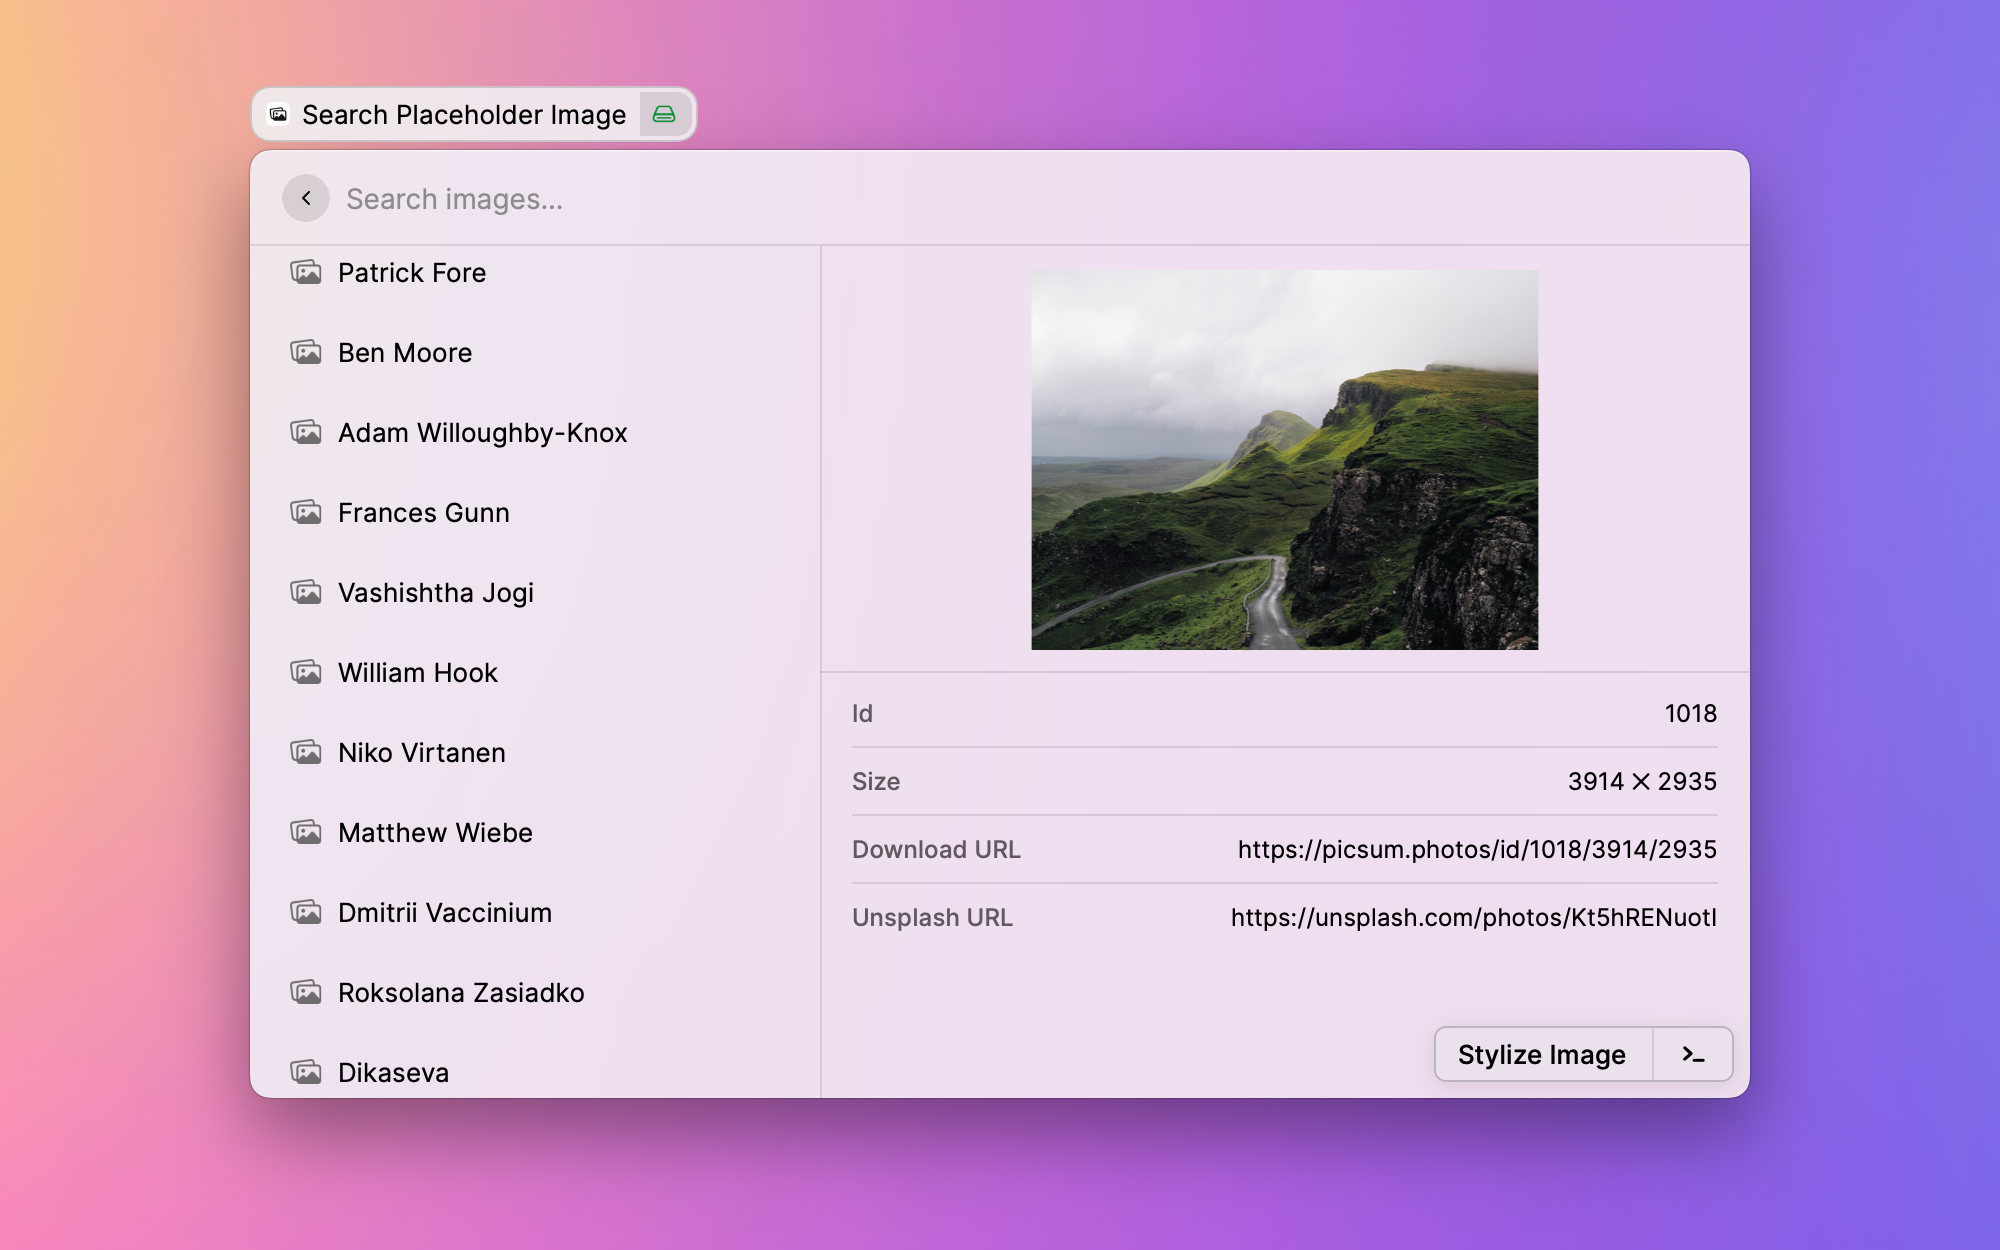
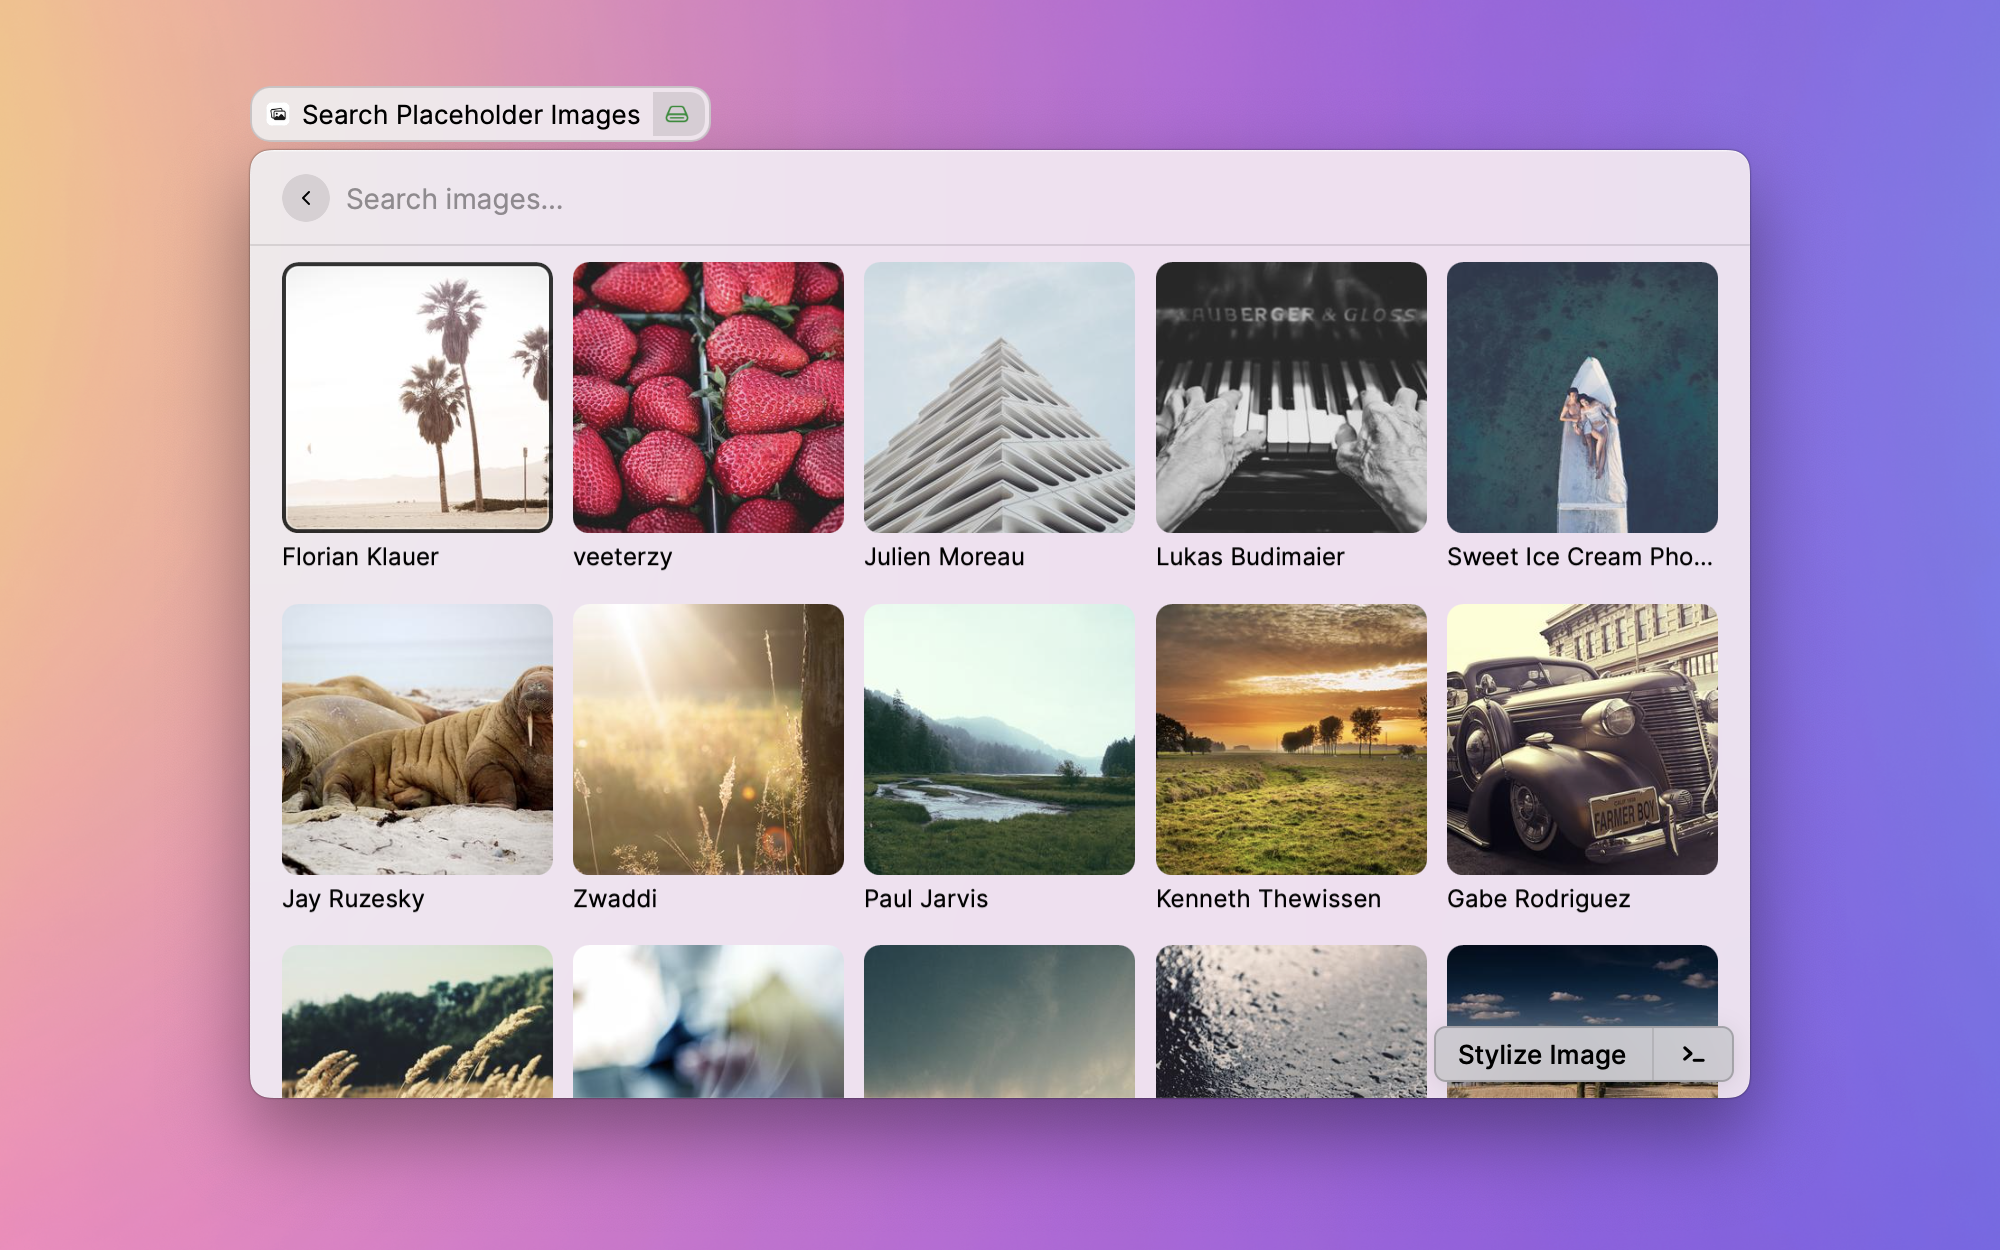
Update Placeholder extension (#1931)
* Update Placeholder extension

* Update tips

* Optimize image loading speed under Grid layout

diff --git a/extensions/placeholder/src/search-placeholder-images.tsx b/extensions/placeholder/src/search-placeholder-images.tsx
@@ -1,33 +1,33 @@
-import { Action, ActionPanel, getPreferenceValues, Icon, List } from "@raycast/api";
+import { getPreferenceValues, Grid, Image, List } from "@raycast/api";
 import React, { useState } from "react";
 import { getPlaceholderImages } from "./hooks/hooks";
 import { Preferences } from "./types/preferences";
 import { PlaceholderEmptyView } from "./components/placeholder-empty-view";
-import { ActionOpenPreferences } from "./components/action-open-preferences";
-import StylizePlaceholderImage from "./stylize-placeholder-image";
-import { PicsumImageAction } from "./components/picsum-image-action";
-import { setWallpaper } from "./utils/common-utils";
+import { ActionOnPlaceholderImage } from "./components/action-on-placeholder-image";
+import Mask = Image.Mask;
 
 export default function SearchPlaceholderImages() {
-  const { primaryAction, perPage } = getPreferenceValues<Preferences>();
-
+  const preferences = getPreferenceValues<Preferences>();
   const [page, setPage] = useState<number>(1);
+  const { picsumImages, isLoading } = getPlaceholderImages(page, parseInt(preferences.perPage));
 
-  const { picsumImages, isLoading } = getPlaceholderImages(page, parseInt(perPage));
-
-  return (
+  return preferences.layout === "List" ? (
     <List
       isShowingDetail={picsumImages.length !== 0 && !isLoading}
       isLoading={isLoading}
       searchBarPlaceholder={"Search images"}
     >
-      <PlaceholderEmptyView />
+      <PlaceholderEmptyView layout={preferences.layout} />
 
       {picsumImages.map((value) => {
         return (
           <List.Item
-            key={value.url}
-            icon={{ source: { light: "picsum-icon.png", dark: "picsum-icon@dark.png" } }}
+            key={value.download_url}
+            icon={{
+              source: prefix + value.id + "/64/64",
+              mask: Mask.RoundedRectangle,
+              fallback: { light: "picsum-icon.svg", dark: "picsum-icon@dark.svg" },
+            }}
             title={{ value: value.author, tooltip: "Author" }}
             detail={
               <List.Item.Detail
@@ -47,68 +47,46 @@ export default function SearchPlaceholderImages() {
               />
             }
             actions={
-              <ActionPanel>
-                <Action.Push
-                  icon={{
-                    source: {
-                      light: "stylize-placeholder-icon.png",
-                      dark: "stylize-placeholder-icon@dark.png",
-                    },
-                  }}
-                  title={"Stylize Image"}
-                  target={<StylizePlaceholderImage id={value.id} width={value.width} height={value.height} />}
-                />
-                <Action
-                  icon={Icon.Desktop}
-                  title={"Set Desktop Wallpaper"}
-                  onAction={() => {
-                    setWallpaper(value.download_url, "wallpaper-" + Date.now()).then();
-                  }}
-                />
-                <ActionPanel.Section>
-                  <Action
-                    icon={Icon.ChevronUp}
-                    title={"Previous Page"}
-                    shortcut={{ modifiers: ["cmd"], key: "pageUp" }}
-                    onAction={() => {
-                      if (page > 1) {
-                        setPage(page - 1);
-                      }
-                    }}
-                  />
-                  <Action
-                    icon={Icon.ChevronDown}
-                    title={"Next Page"}
-                    shortcut={{ modifiers: ["cmd"], key: "pageDown" }}
-                    onAction={() => setPage(page + 1)}
-                  />
-                </ActionPanel.Section>
-                <ActionPanel.Section>
-                  <PicsumImageAction
-                    imageURL={value.download_url}
-                    size={value.width + "x" + value.height}
-                    primaryAction={primaryAction}
-                  />
-                </ActionPanel.Section>
-                <ActionPanel.Section>
-                  <Action.OpenInBrowser shortcut={{ modifiers: ["cmd"], key: "o" }} url={value.download_url} />
-                  <Action.OpenInBrowser
-                    title={"Open in Unsplash"}
-                    shortcut={{ modifiers: ["cmd"], key: "u" }}
-                    url={value.url}
-                  />
-                  <Action.CopyToClipboard
-                    shortcut={{ modifiers: ["shift", "cmd"], key: "." }}
-                    title={"Copy Unsplash URL"}
-                    content={value.url}
-                  />
-                </ActionPanel.Section>
-                <ActionOpenPreferences />
-              </ActionPanel>
+              <ActionOnPlaceholderImage picsumImage={value} preferences={preferences} page={page} setPage={setPage} />
             }
           />
         );
       })}
     </List>
+  ) : (
+    <Grid itemSize={preferences.itemSize as Grid.ItemSize} isLoading={isLoading} searchBarPlaceholder={"Search images"}>
+      <PlaceholderEmptyView layout={preferences.layout} />
+
+      {picsumImages.map((value) => {
+        return (
+          <Grid.Item
+            key={value.download_url}
+            content={{
+              value: buildGridContentImageURL(preferences.itemSize as Grid.ItemSize, value.id),
+              tooltip: value.width + " ✕ " + value.height,
+            }}
+            title={value.author}
+            actions={
+              <ActionOnPlaceholderImage picsumImage={value} preferences={preferences} page={page} setPage={setPage} />
+            }
+          />
+        );
+      })}
+    </Grid>
   );
 }
+
+const prefix = "https://picsum.photos/id/";
+const buildGridContentImageURL = (itemSize: Grid.ItemSize, id: string) => {
+  switch (itemSize) {
+    case Grid.ItemSize.Large: {
+      return prefix + id + "/500";
+    }
+    case Grid.ItemSize.Medium: {
+      return prefix + id + "/300";
+    }
+    case Grid.ItemSize.Small: {
+      return prefix + id + "/200";
+    }
+  }
+};

diff --git a/extensions/placeholder/src/components/action-on-placeholder-image.tsx b/extensions/placeholder/src/components/action-on-placeholder-image.tsx
@@ -1,0 +1,82 @@
+import { Action, ActionPanel, Icon } from "@raycast/api";
+import StylizePlaceholderImage from "../stylize-placeholder-image";
+import { setWallpaper } from "../utils/common-utils";
+import { PicsumImageAction } from "./picsum-image-action";
+import { ActionOpenPreferences } from "./action-open-preferences";
+import React, { Dispatch, SetStateAction } from "react";
+import { PicsumImage } from "../types/types";
+import { Preferences } from "../types/preferences";
+import { RevealImageAction } from "./reveal-image-action";
+
+export function ActionOnPlaceholderImage(props: {
+  picsumImage: PicsumImage;
+  preferences: Preferences;
+  page: number;
+  setPage: Dispatch<SetStateAction<number>>;
+}) {
+  const { picsumImage, preferences, page, setPage } = props;
+  return (
+    <ActionPanel>
+      <Action.Push
+        icon={{
+          source: {
+            light: "stylize-placeholder-icon.png",
+            dark: "stylize-placeholder-icon@dark.png",
+          },
+        }}
+        title={"Stylize Image"}
+        target={<StylizePlaceholderImage id={picsumImage.id} width={picsumImage.width} height={picsumImage.height} />}
+      />
+      <Action
+        icon={Icon.Desktop}
+        title={"Set Desktop Wallpaper"}
+        onAction={() => {
+          setWallpaper(picsumImage.download_url, "wallpaper-" + Date.now()).then();
+        }}
+      />
+      <ActionPanel.Section>
+        <Action
+          icon={Icon.ChevronUp}
+          title={"Previous Page"}
+          shortcut={{ modifiers: ["cmd"], key: "pageUp" }}
+          onAction={() => {
+            if (page > 1) {
+              setPage(page - 1);
+            }
+          }}
+        />
+        <Action
+          icon={Icon.ChevronDown}
+          title={"Next Page"}
+          shortcut={{ modifiers: ["cmd"], key: "pageDown" }}
+          onAction={() => setPage(page + 1)}
+        />
+      </ActionPanel.Section>
+      <ActionPanel.Section>
+        <PicsumImageAction
+          imageURL={picsumImage.download_url}
+          size={picsumImage.width + "x" + picsumImage.height}
+          primaryAction={preferences.primaryAction}
+        />
+      </ActionPanel.Section>
+      <ActionPanel.Section>
+        <RevealImageAction
+          imageURL={picsumImage.download_url}
+          size={picsumImage.width + "x" + picsumImage.height}
+          primaryAction={preferences.primaryAction}
+        />
+        <Action.OpenInBrowser
+          title={"Open in Unsplash"}
+          shortcut={{ modifiers: ["cmd"], key: "u" }}
+          url={picsumImage.url}
+        />
+        <Action.CopyToClipboard
+          shortcut={{ modifiers: ["shift", "cmd"], key: "." }}
+          title={"Copy Unsplash URL"}
+          content={picsumImage.url}
+        />
+      </ActionPanel.Section>
+      <ActionOpenPreferences />
+    </ActionPanel>
+  );
+}

diff --git a/extensions/placeholder/src/random-placeholder-image.tsx b/extensions/placeholder/src/random-placeholder-image.tsx
@@ -1,11 +1,12 @@
 import { Action, ActionPanel, Form, getPreferenceValues, Icon } from "@raycast/api";
-import { useState } from "react";
+import React, { useState } from "react";
 import { ImageDetail } from "./components/image-detail";
 import { PicsumImageAction } from "./components/picsum-image-action";
 import { getRandomPlaceholderImageURL } from "./hooks/hooks";
 import { RandomImageConfig, randomImageConfigInit } from "./types/types";
 import { Preferences } from "./types/preferences";
 import { ActionOpenPreferences } from "./components/action-open-preferences";
+import { RevealImageAction } from "./components/reveal-image-action";
 
 export default function CreateShortcut() {
   const { primaryAction, autoRefresh } = getPreferenceValues<Preferences>();
@@ -27,21 +28,13 @@ export default function CreateShortcut() {
             setRefresh={setRefresh}
           />
           <ActionPanel.Section>
-            <Action.Push
-              icon={Icon.Window}
-              shortcut={{ modifiers: ["cmd"], key: "s" }}
-              title={"Show in Raycast"}
-              target={
-                <ImageDetail
-                  imageURL={imageURL}
-                  size={parseInt(picsumConfig.width) + "x" + parseInt(picsumConfig.height)}
-                  primaryAction={primaryAction}
-                  autoRefresh={autoRefresh}
-                  setRefresh={setRefresh}
-                />
-              }
+            <RevealImageAction
+              imageURL={imageURL}
+              size={parseInt(picsumConfig.width) + "x" + parseInt(picsumConfig.height)}
+              primaryAction={primaryAction}
+              autoRefresh={autoRefresh}
+              setRefresh={setRefresh}
             />
-            <Action.OpenInBrowser shortcut={{ modifiers: ["cmd"], key: "o" }} url={imageURL} />
           </ActionPanel.Section>
           <ActionPanel.Section>
             {picsumConfig.staticRandom && (

diff --git a/extensions/placeholder/src/components/placeholder-empty-view.tsx b/extensions/placeholder/src/components/placeholder-empty-view.tsx
@@ -1,8 +1,28 @@
-import { List } from "@raycast/api";
+import { ActionPanel, Grid, List } from "@raycast/api";
 import React from "react";
+import { ActionOpenPreferences } from "./action-open-preferences";
 
-export function PlaceholderEmptyView() {
-  return (
-    <List.EmptyView icon={{ source: { light: "picsum-icon.svg", dark: "picsum-icon@dark.svg" } }} title={"No images"} />
+export function PlaceholderEmptyView(props: { layout: string }) {
+  const { layout } = props;
+  return layout === "List" ? (
+    <List.EmptyView
+      icon={{ source: { light: "picsum-icon.svg", dark: "picsum-icon@dark.svg" } }}
+      title={"No images"}
+      actions={
+        <ActionPanel>
+          <ActionOpenPreferences />
+        </ActionPanel>
+      }
+    />
+  ) : (
+    <Grid.EmptyView
+      icon={{ source: { light: "picsum-icon.svg", dark: "picsum-icon@dark.svg" } }}
+      title={"No images"}
+      actions={
+        <ActionPanel>
+          <ActionOpenPreferences />
+        </ActionPanel>
+      }
+    />
   );
 }

diff --git a/extensions/placeholder/src/components/reveal-image-action.tsx b/extensions/placeholder/src/components/reveal-image-action.tsx
@@ -22,8 +22,8 @@ export function RevealImageAction(props: {
     <>
       <Action.Push
         icon={Icon.Window}
-        shortcut={{ modifiers: ["cmd"], key: "s" }}
-        title={"Show in Raycast"}
+        shortcut={{ modifiers: ["cmd"], key: "y" }}
+        title={"Preview Placeholder"}
         target={
           <ImageDetail
             imageURL={imageURL}

diff --git a/extensions/placeholder/src/types/preferences.ts b/extensions/placeholder/src/types/preferences.ts
@@ -1,4 +1,6 @@
 export interface Preferences {
+  layout: string;
+  itemSize: string;
   primaryAction: string;
   autoRefresh: boolean;
   perPage: string;

diff --git a/extensions/placeholder/README.md b/extensions/placeholder/README.md
@@ -8,12 +8,7 @@ Just add your desired image size (width & height), and you'll get a stylish plac
 
 - If you find an image you like in the **Search Placeholder Image** command, you can use the _Set Desktop Wallpaper_ action to set it as your desktop wallpaper.
 
-**Preferences:**
-
-- Primary action: Set the primary action in Random Placeholder Image.
-- Auto Refresh: Automatically refresh image URL after copying or downloading images.
-
-Want more Images extensions? Try those. [©koinzhang](https://www.raycast.com/koinzhang)
+Want more **Media** extensions? Try those. [©koinzhang](https://www.raycast.com/koinzhang)
 
 <a id="install-extension-button" title="Install Bing Wallpaper Raycast Extension" href="https://www.raycast.com/koinzhang/bing-wallpaper#install">
         <img height="64" style="height: 64px" src="https://assets.raycast.com/koinzhang/bing-wallpaper/install_button@2x.png">

diff --git a/extensions/placeholder/CHANGELOG.md b/extensions/placeholder/CHANGELOG.md
@@ -1,5 +1,9 @@
 # Placeholder Changelog
 
+## [Add new image layout options] - {PR_MERGE_DATE}
+
+- Add new image layout options: List or Grid.
+
 ## [Fix text error] - 2022-06-04
 
 - Fix text error
